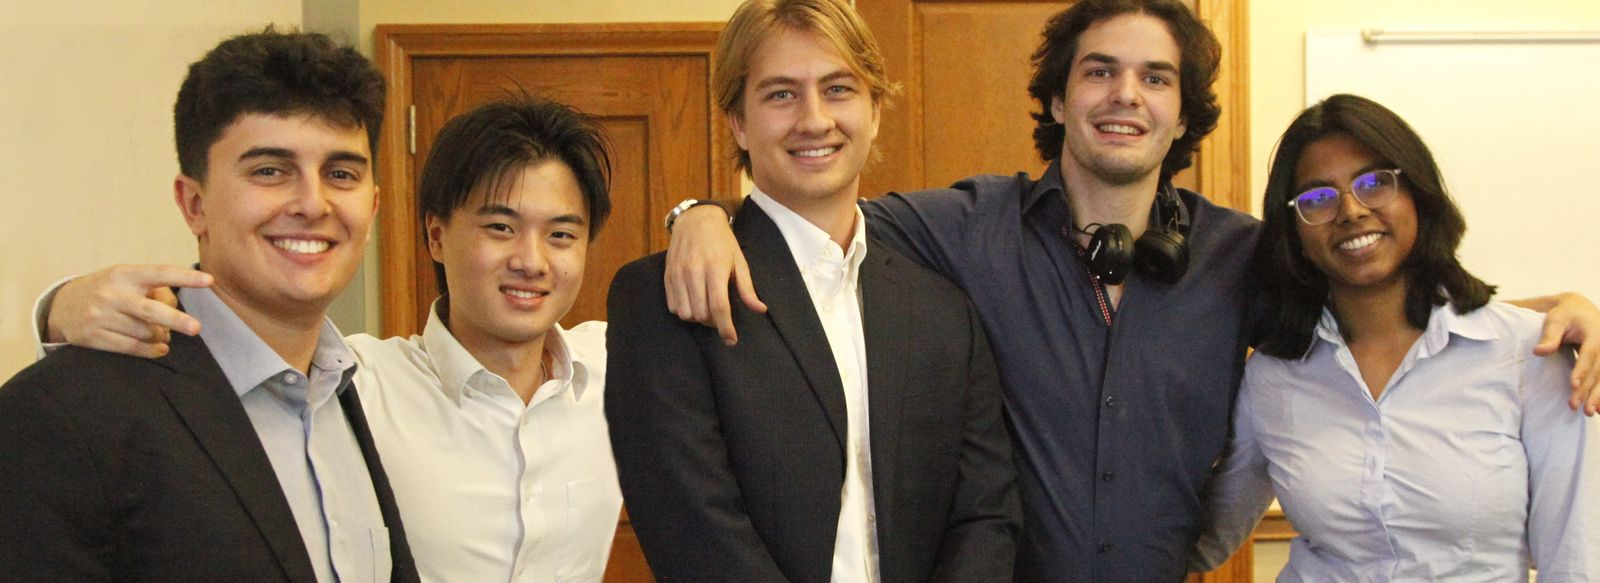
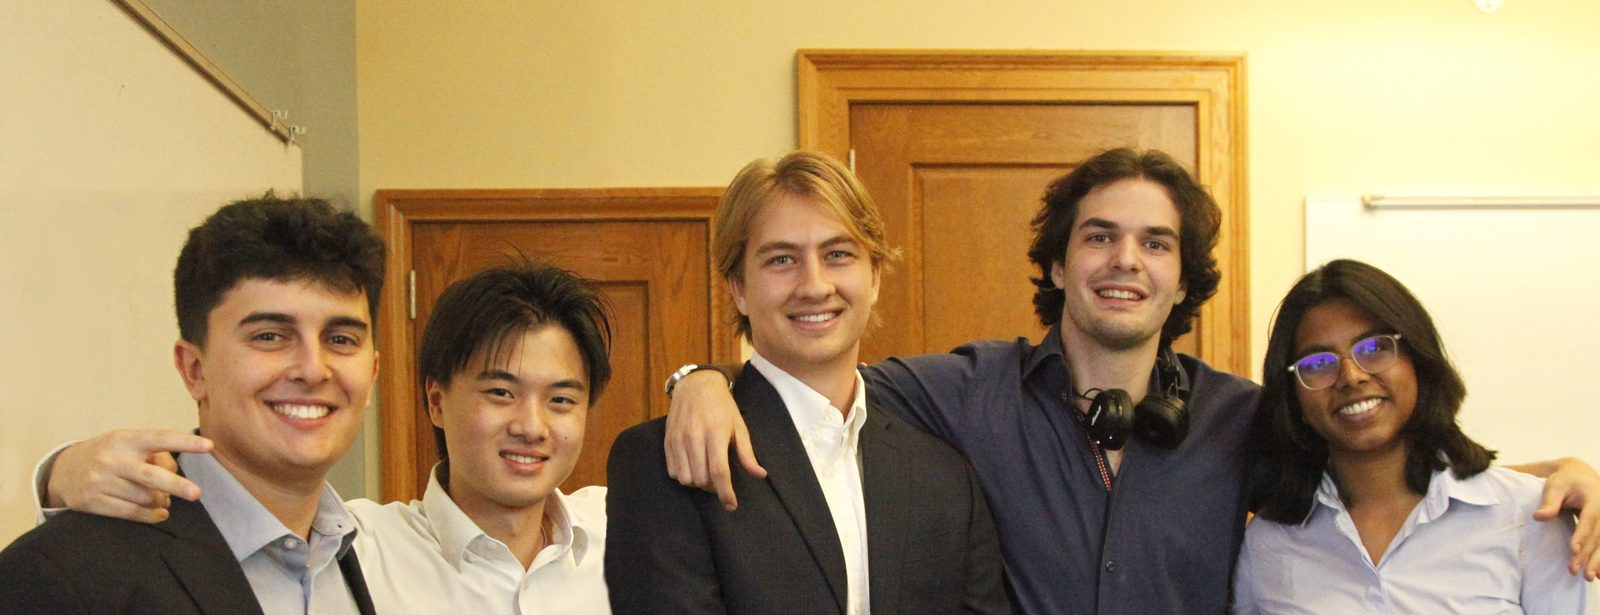
edits 10/6/2026

diff --git a/styles.css b/styles.css
@@ -603,7 +603,7 @@ nav.links a.active{color:var(--gold-light); opacity:1;}
 }
 
 /* Wide photo banner (used for event/leadership group shots) */
-.photo-banner{width:100%; height:0; padding-bottom:30.3%; position:relative; overflow:hidden; background:var(--ink);}
+.photo-banner{width:100%; height:0; padding-bottom:38.46%; position:relative; overflow:hidden; background:var(--ink);}
 .photo-banner img{position:absolute; inset:0; width:100%; height:100%; object-fit:cover; display:block;}
 .photo-banner .caption{
   position:absolute; bottom:14px; left:24px; z-index:2;
@@ -636,4 +636,36 @@ nav.links a.active{color:var(--gold-light); opacity:1;}
 .team-card .reports-to{
   font-family:'IBM Plex Mono',monospace; font-size:0.6rem; letter-spacing:0.05em;
   text-transform:uppercase; color:#8A6A1E; display:block; margin-bottom:14px; opacity:0.85;
+}
+
+/* First-meeting scrapbook (Meetings page) */
+.scrapbook-section{background:var(--ink); padding:84px 32px 96px; position:relative; overflow:hidden;}
+.scrapbook-section .section-head{margin-left:auto; margin-right:auto; text-align:center; margin-bottom:0;}
+.scrapbook{display:flex; flex-wrap:wrap; justify-content:center; gap:40px 30px; max-width:1180px; margin:56px auto 0;}
+.polaroid{
+  margin:0; background:#FBF9F2; padding:12px 12px 14px; width:calc(25% - 24px); min-width:210px; max-width:270px;
+  box-shadow:0 20px 38px -14px rgba(0,0,0,0.7);
+  transform:rotate(var(--rot,0deg)); transition:transform 0.35s cubic-bezier(.2,.7,.3,1), box-shadow 0.35s ease;
+  position:relative;
+}
+.polaroid:nth-child(even){margin-top:28px;}
+.polaroid::before{
+  content:""; position:absolute; top:-12px; left:50%; width:74px; height:22px;
+  transform:translateX(-50%) rotate(-3deg); background:rgba(205,174,124,0.6);
+  box-shadow:0 1px 3px rgba(0,0,0,0.25);
+}
+.polaroid img{width:100%; aspect-ratio:8/5; object-fit:cover; display:block;}
+.polaroid figcaption{
+  font-family:'Newsreader',serif; font-style:italic; color:#2A2A33;
+  text-align:center; padding-top:12px; font-size:0.98rem;
+}
+.polaroid:hover{
+  transform:rotate(0deg) scale(1.07) translateY(-6px); z-index:3;
+  box-shadow:0 30px 50px -16px rgba(0,0,0,0.8);
+}
+@media (max-width:760px){
+  .scrapbook{gap:30px 16px;}
+  .polaroid{width:calc(50% - 10px); min-width:0; padding:8px 8px 10px;}
+  .polaroid:nth-child(even){margin-top:14px;}
+  .polaroid figcaption{font-size:0.8rem; padding-top:8px;}
 }

diff --git a/meetings/index.html b/meetings/index.html
@@ -52,11 +52,7 @@
       <h1>Weekly meetings.</h1>
     </div>
   </section>
-  <div class="photo-banner">
-    <img src="/assets/event-1.jpg" alt="MWAG guest speaker session">
-    <span class="caption">MWAG's first guest speaker session</span>
-  </div>
-  <section class="meet-section light" style="padding:60px 32px 50px;">
+    <section class="meet-section light" style="padding:60px 32px 50px;">
     <div class="wrap">
       <div class="meet-grid">
         <div>
@@ -100,6 +96,32 @@
     </div>
   </section>
 
+    <section class="scrapbook-section">
+    <div class="section-head">
+      <span class="eyebrow">From the first meeting</span>
+      <h2>Where it started.</h2>
+      <p>A few frames from our first guest speaker session.</p>
+    </div>
+    <div class="scrapbook">
+      <figure class="polaroid" style="--rot:-4deg;">
+        <img src="/assets/polaroid-speaker.jpg" alt="Guest speaker addressing the room at MWAG's first meeting" loading="lazy">
+        <figcaption>Guest speaker, day one</figcaption>
+      </figure>
+      <figure class="polaroid" style="--rot:3deg;">
+        <img src="/assets/polaroid-team-goofy.jpg" alt="MWAG leadership team posing playfully" loading="lazy">
+        <figcaption>The team, off the clock</figcaption>
+      </figure>
+      <figure class="polaroid" style="--rot:-2.5deg;">
+        <img src="/assets/polaroid-room.jpg" alt="Students listening to the guest speaker" loading="lazy">
+        <figcaption>Mid-conversation</figcaption>
+      </figure>
+      <figure class="polaroid" style="--rot:4deg;">
+        <img src="/assets/polaroid-team.jpg" alt="MWAG leadership team" loading="lazy">
+        <figcaption>The team</figcaption>
+      </figure>
+    </div>
+  </section>
+
   <section class="join-section" id="join">
     <h2>Join MWAG.</h2>
     <p>Fill out our interest form to get on our mailing list, or apply directly to one of our Associate teams below.</p>
@@ -127,6 +149,7 @@
       <a href="/offerings/">Offerings</a>
       <a href="/curriculum/">Curriculum</a>
       <a href="/leadership/">Leadership</a>
+      <a href="/associates/">Associates</a>
       <a href="/about/">About</a>
       <a href="/meetings/">Meetings</a>
     </div>

diff --git a/associates/index.html b/associates/index.html
@@ -43,14 +43,17 @@
 
 <main id="top">
 
-  <section class="page-hero video-hero">
+  <section class="page-hero video-hero" style="padding-bottom:52px;">
     <video autoplay loop muted playsinline>
       <source src="/assets/bg-loop.mp4" type="video/mp4">
     </video>
     <div class="inner">
       <span class="eyebrow">Get Involved</span>
       <h1>Associate Teams</h1>
-      <p>Five teams, one club. Find where you fit and apply below.</p>
+      <p>Five teams, one club. Find where you fit, then apply.</p>
+      <div style="margin-top:28px;">
+        <a class="btn-primary" href="https://forms.gle/tePZriJdqpdEjFZr7" target="_blank" rel="noopener">Apply now &rarr;</a>
+      </div>
     </div>
   </section>
 
@@ -126,10 +129,10 @@
   </section>
 
   <section class="join-section" id="join">
-    <h2>Join MWAG.</h2>
-    <p>Fill out our interest form to get on our mailing list, or apply directly to one of our Associate teams above.</p>
+    <h2>Ready to apply?</h2>
+    <p>Start with our interest form and we'll send you the Associate application. You'll rank your top two teams and upload a resume.</p>
     <div class="join-actions">
-      <a class="btn-dark" href="https://forms.gle/tePZriJdqpdEjFZr7" target="_blank" rel="noopener">Interest Form &rarr;</a>
+      <a class="btn-dark" href="https://forms.gle/tePZriJdqpdEjFZr7" target="_blank" rel="noopener">Apply now &rarr;</a>
       <a class="btn-ghost" href="/contact/">Email us a question</a>
     </div>
   </section>
@@ -150,6 +153,7 @@
       <a href="/offerings/">Offerings</a>
       <a href="/curriculum/">Curriculum</a>
       <a href="/leadership/">Leadership</a>
+      <a href="/associates/">Associates</a>
       <a href="/about/">About</a>
       <a href="/meetings/">Meetings</a>
     </div>

diff --git a/about/index.html b/about/index.html
@@ -143,6 +143,7 @@
       <a href="/offerings/">Offerings</a>
       <a href="/curriculum/">Curriculum</a>
       <a href="/leadership/">Leadership</a>
+      <a href="/associates/">Associates</a>
       <a href="/about/">About</a>
       <a href="/meetings/">Meetings</a>
     </div>

diff --git a/contact/index.html b/contact/index.html
@@ -101,6 +101,7 @@
       <a href="/offerings/">Offerings</a>
       <a href="/curriculum/">Curriculum</a>
       <a href="/leadership/">Leadership</a>
+      <a href="/associates/">Associates</a>
       <a href="/about/">About</a>
       <a href="/meetings/">Meetings</a>
     </div>

diff --git a/curriculum/index.html b/curriculum/index.html
@@ -198,6 +198,7 @@
       <a href="/offerings/">Offerings</a>
       <a href="/curriculum/">Curriculum</a>
       <a href="/leadership/">Leadership</a>
+      <a href="/associates/">Associates</a>
       <a href="/about/">About</a>
       <a href="/meetings/">Meetings</a>
     </div>

diff --git a/index.html b/index.html
@@ -152,6 +152,7 @@
       <a href="/offerings/">Offerings</a>
       <a href="/curriculum/">Curriculum</a>
       <a href="/leadership/">Leadership</a>
+      <a href="/associates/">Associates</a>
       <a href="/about/">About</a>
       <a href="/meetings/">Meetings</a>
     </div>

diff --git a/leadership/index.html b/leadership/index.html
@@ -128,6 +128,7 @@
       <a href="/offerings/">Offerings</a>
       <a href="/curriculum/">Curriculum</a>
       <a href="/leadership/">Leadership</a>
+      <a href="/associates/">Associates</a>
       <a href="/about/">About</a>
       <a href="/meetings/">Meetings</a>
     </div>

diff --git a/offerings/index.html b/offerings/index.html
@@ -142,6 +142,7 @@
       <a href="/offerings/">Offerings</a>
       <a href="/curriculum/">Curriculum</a>
       <a href="/leadership/">Leadership</a>
+      <a href="/associates/">Associates</a>
       <a href="/about/">About</a>
       <a href="/meetings/">Meetings</a>
     </div>
